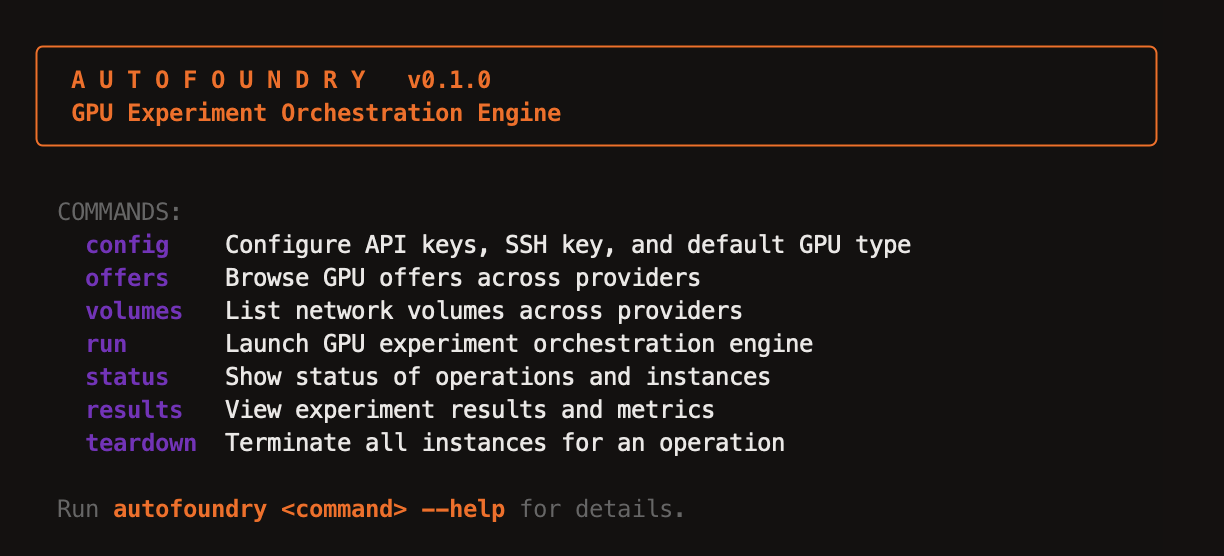
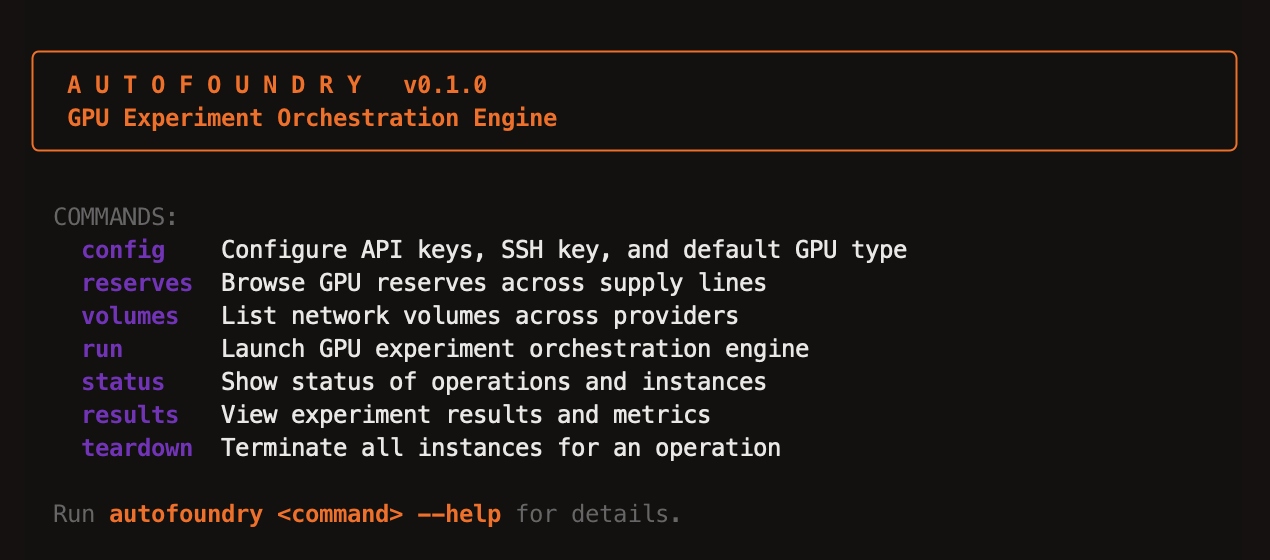
docs: update docs for all four providers after PRs #10-#13 (#14)
* docs: update CLAUDE.md and MANUAL_TESTS.md for all four providers

Reflect PRs #10-#13: Vast.ai SSH connectivity (ssh_host field, POST for
key registration, Bearer auth), PRIME Intellect (follow_redirects,
trailing slashes, primary SSH key, massedcompute filtering), and mark
all four providers as fully working. Add per-provider scratch run tests
and quick-script section to manual tests.

* docs: update CLI preview screenshot

---------

Changed region(s): [[0.031, 0.3669, 0.7451, 0.8255], [0.0, 0.0612, 0.9935, 0.2752], [0.031, 0.8867, 0.5588, 0.9478]]

diff --git a/tests/MANUAL_TESTS.md b/tests/MANUAL_TESTS.md
@@ -47,25 +47,49 @@ autofoundry reserves --gpu A100
 autofoundry volumes
 ```
 
-**Pass:** Shows existing RunPod network volumes (or "No volumes found" if none exist).
+**Pass:** Shows existing volumes from RunPod and Lambda Labs (or "No volumes found" if none exist).
 
 ---
 
-## 5. Scratch run (no volume, no Docker image)
-
-This is the simplest path — everything installs from zero.
+## 5. Scratch run — RunPod
 
 ```bash
-autofoundry run scripts/run_autoresearch.sh
+autofoundry run scripts/run_autoresearch.sh --provider runpod --auto
 ```
 
-Walk through the prompts:
-- Experiments: 1
-- GPU type: H100
-- Select a RunPod offer
-- Confirm the plan
+Or walk through interactively and select a RunPod offer.
 
 **Pass:** Instance provisions, script uploads, autoresearch clones + installs + runs, metrics reported, teardown prompt works.
+
+---
+
+## 5b. Scratch run — Lambda Labs
+
+```bash
+autofoundry run scripts/run_autoresearch.sh --provider lambdalabs --region US --auto
+```
+
+**Pass:** Bare metal VM provisions (no Docker), SSH key registered, script runs, metrics reported, teardown works.
+
+---
+
+## 5c. Scratch run — Vast.ai
+
+```bash
+autofoundry run scripts/run_autoresearch.sh --provider vastai --auto
+```
+
+**Pass:** Instance provisions via marketplace PUT, SSH connects using `ssh_host`/`ssh_port` fields, script runs, metrics reported, teardown works.
+
+---
+
+## 5d. Scratch run — PRIME Intellect
+
+```bash
+autofoundry run scripts/run_autoresearch.sh --provider primeintellect --auto
+```
+
+**Pass:** SSH key registered and set as primary, instance provisions (massedcompute sub-provider excluded), script runs, metrics reported, teardown works.
 
 ---
 
@@ -153,15 +177,30 @@ autofoundry run scripts/run_autoresearch.sh --volume af-workspace
 autofoundry run scripts/run_autoresearch.sh --volume my-vol
 ```
 
-Select PRIME Intellect instead of RunPod.
+Select PRIME Intellect or Vast.ai instead of RunPod/Lambda Labs.
 
 **Pass:** Shows error "Network volumes not supported on: primeintellect", continues without volume.
 
 ---
 
+## 11. Quick provider scripts
+
+Each provider has a build-and-run script for one-command end-to-end testing:
+
+```bash
+scripts/build_and_run_autoresearch_on_runpod.sh
+scripts/build_and_run_autoresearch_on_lambdalabs.sh
+scripts/build_and_run_autoresearch_on_vastai.sh
+scripts/build_and_run_autoresearch_on_primeintellect.sh
+```
+
+**Pass:** Each script builds autofoundry from source and runs autoresearch on the target provider end-to-end.
+
+---
+
 ## Cleanup
 
-Delete any test volumes via the RunPod dashboard (no CLI delete command yet).
+Delete any test volumes via the RunPod or Lambda Labs dashboard (no CLI delete command yet).
 Teardown any remaining operations:
 
 ```bash

diff --git a/.claude/CLAUDE.md b/.claude/CLAUDE.md
@@ -38,12 +38,19 @@ cli.py → planner.py → provisioner.py → executor.py → reporter.py
 
 ### Vast.ai
 - Response uses `"bundles"` key (not `"offers"`)
-- Uses `api_key` as query param
+- Auth: `Authorization: Bearer` header on httpx client for most endpoints
+- `create_instance` PUT passes `api_key` as query param (not header)
 - GPU name filtering must be client-side (substring match via `_find_gpu_variants`), not exact match
+- **SSH connectivity**: Use `ssh_host` and `ssh_port` fields from instance details (not `public_ipaddr`)
+- SSH key registration: POST to `/ssh/` (not PUT), no `api_key` query param needed (uses Bearer header)
 - Provider image: `runpod/pytorch:1.0.2-cu1281-torch280-ubuntu2404`
 
 ### PRIME Intellect
 - API returns camelCase fields: `gpuType`, `gpuMemory`, `cloudId`, `prices.onDemand`
+- httpx client requires `follow_redirects=True` (API returns 307 for paths without trailing slashes)
+- SSH key endpoints require trailing slashes: `/ssh_keys/`, `/ssh_keys/{id}/`
+- SSH key must be set as primary (`isPrimary: true` via PATCH) — PI only propagates primary key to sub-providers
+- `massedcompute` sub-provider is filtered out (unreliable SSH key propagation and provisioning)
 - `create_instance` requires nested `{"pod": {...}, "provider": {...}}` payload
 - `stockStatus` values: "Low" counts as available; only exclude "", "out_of_stock", "unavailable"
 - Null safety: use `str(item.get("field") or "")` for metadata dict values (Pydantic rejects None in `dict[str, str]`)
@@ -77,5 +84,5 @@ cli.py → planner.py → provisioner.py → executor.py → reporter.py
 ## Status
 - RunPod: fully working (provision, execute, stream, report, teardown, volumes) ✓
 - Lambda Labs: fully working (provision, execute, stream, report, teardown) ✓
-- Vast.ai: GPU listing works, provisioning untested
+- Vast.ai: fully working (provision, execute, stream, report, teardown) ✓
 - PRIME Intellect: fully working (provision, execute, stream, report, teardown) ✓
